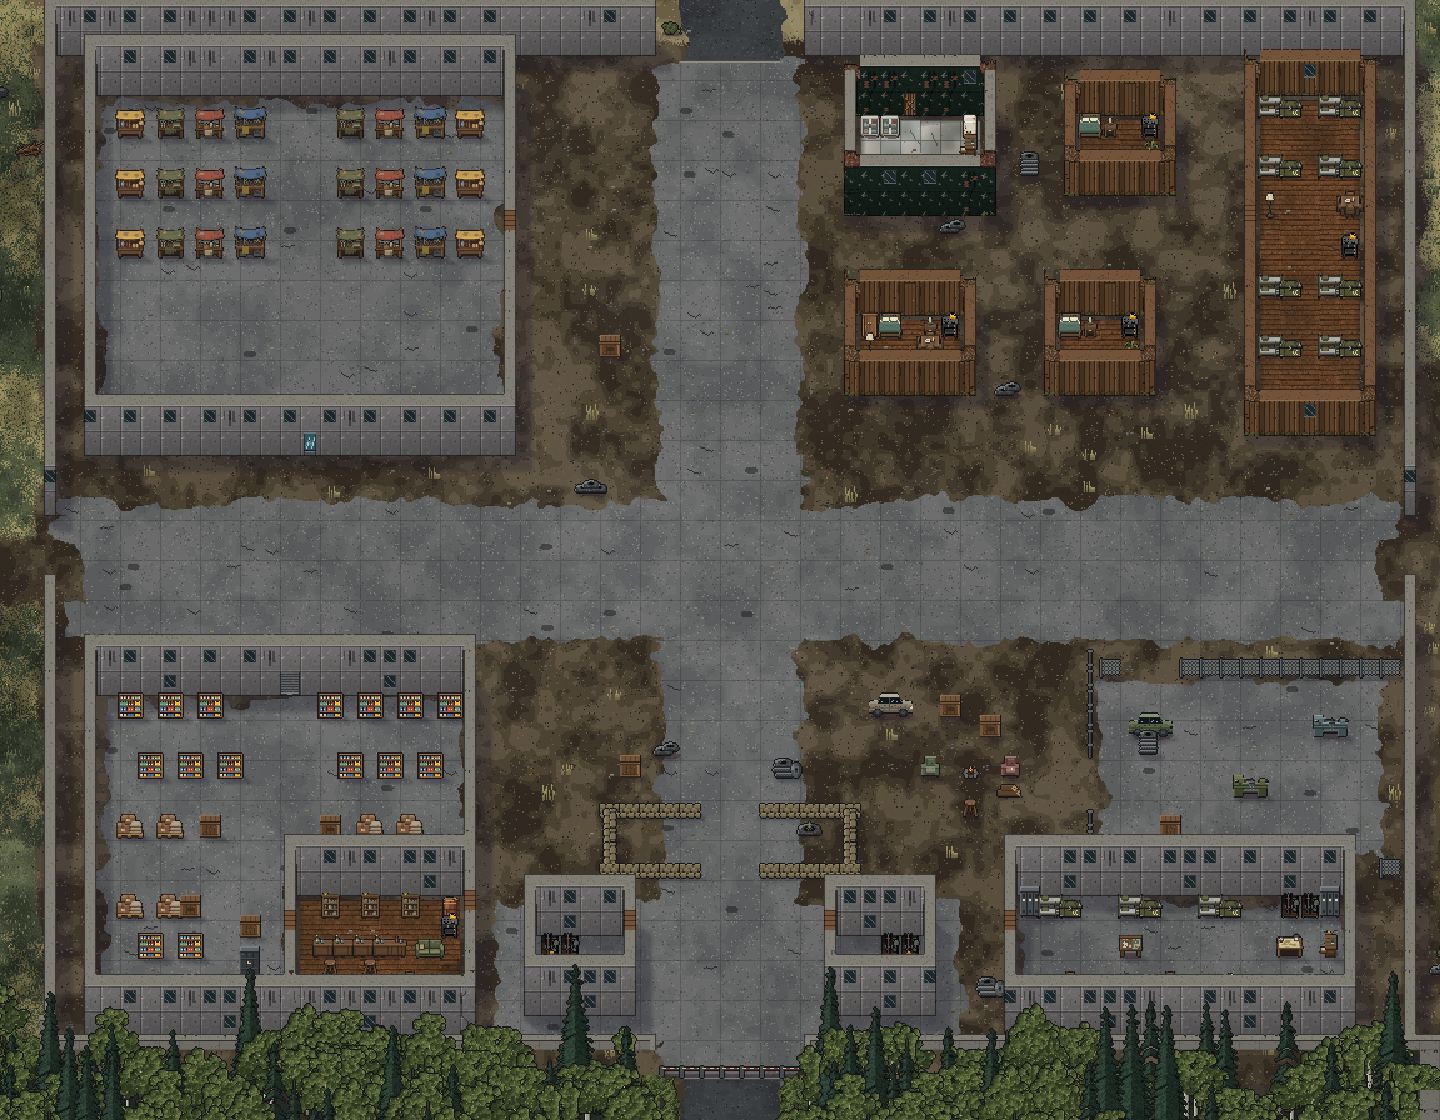
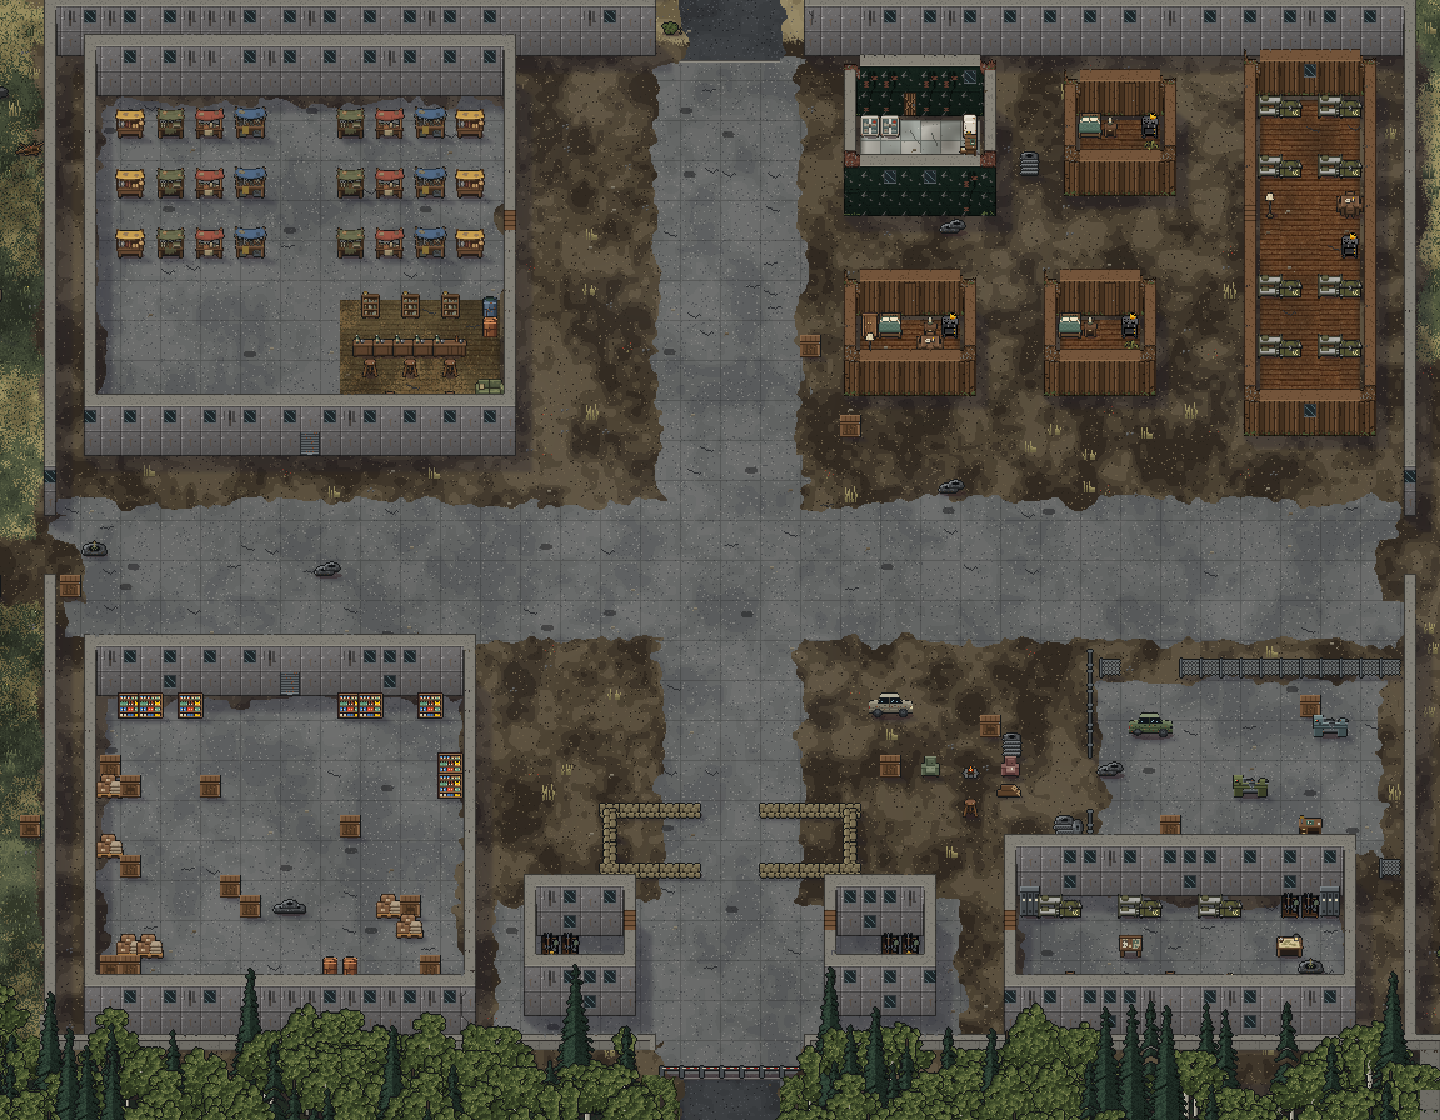
Hub: open bar in the Bazaar warehouse, natural clutter in the storage warehouse
Claude-Session: https://claude.ai/code/session_01Jpd5tdDJTR7BVueAYV1KDM

diff --git a/Assets/Scripts/GameCore/Interiors.cs b/Assets/Scripts/GameCore/Interiors.cs
@@ -349,88 +349,6 @@ namespace GameCore
             "......",
         };
 
-        public static readonly string[] WarehouseN = {
-            "######################",
-            "#....................#",
-            "#....................#",
-            "#....................#",
-            "#....................#",
-            "#....................#",
-            "#....................#",
-            "#....................#",
-            "#....................#",
-            "#....................D",
-            "#....................#",
-            "#....................#",
-            "#....................#",
-            "#....................#",
-            "#....................#",
-            "#....................#",
-            "#....................#",
-            "#....................#",
-            "###########D##########",
-        };
-        public static readonly string[] WarehouseNFloor = {
-            "......................",
-            ".cccccccccccccccccccc.",
-            ".cccccccccccccccccccc.",
-            ".cccccccccccccccccccc.",
-            ".cccccccccccccccccccc.",
-            ".cccccccccccccccccccc.",
-            ".cccccccccccccccccccc.",
-            ".cccccccccccccccccccc.",
-            ".cccccccccccccccccccc.",
-            ".cccccccccccccccccccc.",
-            ".cccccccccccccccccccc.",
-            ".cccccccccccccccccccc.",
-            ".cccccccccccccccccccc.",
-            ".cccccccccccccccccccc.",
-            ".cccccccccccccccccccc.",
-            ".cccccccccccccccccccc.",
-            ".cccccccccccccccccccc.",
-            ".cccccccccccccccccccc.",
-            "......................",
-        };
-        public static readonly string[] WarehouseBar = {
-            "####n#####D####n####",
-            "#.g.g.g.....g.g.g.g#",
-            "#..................#",
-            "#..................#",
-            "n..g.g.g.....g.g.g.n",
-            "#..................#",
-            "#..................#",
-            "#.X.X.c.....c.X.X..#",
-            "#..................#",
-            "#..................#",
-            "#.........#######n##",
-            "#.X.X.....#.P.P.P.r#",
-            "#.......c.#.......s#",
-            "n..g.g....#.VVVV.o.D",
-            "#.......h.D.S.S....#",
-            "#c........#....STS.n",
-            "#.........#........#",
-            "#######n######n#####",
-        };
-        public static readonly string[] WarehouseBarFloor = {
-            "....................",
-            ".cccccccccccccccccc.",
-            ".cccccccccccccccccc.",
-            ".cccccccccccccccccc.",
-            ".cccccccccccccccccc.",
-            ".cccccccccccccccccc.",
-            ".cccccccccccccccccc.",
-            ".cccccccccccccccccc.",
-            ".cccccccccccccccccc.",
-            ".cccccccccccccccccc.",
-            ".ccccccccc..........",
-            ".ccccccccc.wwwwwwww.",
-            ".ccccccccc.wwwwwwww.",
-            ".ccccccccc.wwwwwwww.",
-            ".ccccccccc.wwwwwwww.",
-            ".ccccccccc.wwwwwwww.",
-            ".ccccccccc.wwwwwwww.",
-            "....................",
-        };
         public static readonly string[] BunkTall = {
             "###n###",
             "#KF.KF#",
@@ -490,6 +408,89 @@ namespace GameCore
             ".cccccccccccccccc.",
             ".cccccccccccccccc.",
             "..................",
+        };
+
+        public static readonly string[] WarehouseN = {
+            "######################",
+            "#....................#",
+            "#....................#",
+            "#....................#",
+            "#....................#",
+            "#....................#",
+            "#....................#",
+            "#....................#",
+            "#....................#",
+            "#....................D",
+            "#....................#",
+            "#.............P.P.P.r#",
+            "#...................r#",
+            "#.............VVVVV..#",
+            "#.............S.S.S..#",
+            "#...................o#",
+            "#............S.TS.T..#",
+            "#....................#",
+            "###########D##########",
+        };
+        public static readonly string[] WarehouseNFloor = {
+            "......................",
+            ".cccccccccccccccccccc.",
+            ".cccccccccccccccccccc.",
+            ".cccccccccccccccccccc.",
+            ".cccccccccccccccccccc.",
+            ".cccccccccccccccccccc.",
+            ".cccccccccccccccccccc.",
+            ".cccccccccccccccccccc.",
+            ".cccccccccccccccccccc.",
+            ".cccccccccccccccccccc.",
+            ".cccccccccccccccccccc.",
+            ".ccccccccccccwwwwwwww.",
+            ".ccccccccccccwwwwwwww.",
+            ".ccccccccccccwwwwwwww.",
+            ".ccccccccccccwwwwwwww.",
+            ".ccccccccccccwwwwwwww.",
+            ".ccccccccccccwwwwwwww.",
+            ".cccccccccccccccccccc.",
+            "......................",
+        };
+        public static readonly string[] WarehouseS = {
+            "####n#####D####n####",
+            "#.gg.g.......gg..g.#",
+            "#..................#",
+            "#..................#",
+            "#c................g#",
+            "#Xc...c...........g#",
+            "n..................#",
+            "#............c.....#",
+            "#X.................n",
+            "#.c................#",
+            "#......c...........#",
+            "#.......c......Xc..#",
+            "n...............X..#",
+            "#.XX...............n",
+            "#cc.........rr...c.#",
+            "#..c.....m.......XX#",
+            "#..................#",
+            "####################",
+        };
+        public static readonly string[] WarehouseSFloor = {
+            "....................",
+            ".cccccccccccccccccc.",
+            ".cccccccccccccccccc.",
+            ".cccccccccccccccccc.",
+            ".cccccccccccccccccc.",
+            ".cccccccccccccccccc.",
+            ".cccccccccccccccccc.",
+            ".cccccccccccccccccc.",
+            ".cccccccccccccccccc.",
+            ".cccccccccccccccccc.",
+            ".cccccccccccccccccc.",
+            ".cccccccccccccccccc.",
+            ".cccccccccccccccccc.",
+            ".cccccccccccccccccc.",
+            ".cccccccccccccccccc.",
+            ".cccccccccccccccccc.",
+            ".cccccccccccccccccc.",
+            "....................",
         };
 
         /// <summary>The dev map: the three test buildings on grass, side by side.</summary>

diff --git a/Tools/compile_check/test/Program.cs b/Tools/compile_check/test/Program.cs
@@ -3337,7 +3337,7 @@ static class Program {
       Check(h >= 4 && sh >= 4 && bk >= 4 && conts.All(o => TerrainMap.GetTile(o.X, o.Y).Look != null), $"the test buildings hold small containers on their furniture (house {h}, shop {sh}, barracks {bk})");
       var pl = Player.Current ?? new Player(); int ru0 = pl.Ru; int items0 = pl.Inventory.Items.Count; for (int i = 0; i < 200; i++) foreach (var o in conts.Where(o => o.Reward.Loot.Id.StartsWith("cont:house:"))) ContainerLoot.Grant(pl, o.Reward.Loot.Id);
       Check(!pl.Inventory.Items.Any(it => it.Type == "weapon" || it.Type == "armor"), "a house's containers, opened 200 times over, never gave a weapon or armor"); }
-    foreach (var (name, rows, floors, door) in new[] { ("house", Interiors.House, Interiors.HouseFloor, (17, 7)), ("shop", Interiors.Shop, Interiors.ShopFloor, (7, 12)), ("barracks", Interiors.Barracks, Interiors.BarracksFloor, (13, 14)), ("bunkhouse", Interiors.Bunkhouse, Interiors.BunkhouseFloor, (7, 7)), ("clinic", Interiors.Clinic, Interiors.ClinicFloor, (4, 6)), ("cabin1", Interiors.Cabin1, Interiors.Cabin1Floor, (3, 1)), ("cabin2", Interiors.Cabin2, Interiors.Cabin2Floor, (3, 1)), ("workshop", Interiors.Workshop, Interiors.WorkshopFloor, (4, 1)), ("tent", Interiors.Tent, Interiors.TentFloor, (4, 2)), ("bar", Interiors.Bar, Interiors.BarFloor, (1, 3)), ("anchor", Interiors.Anchor, Interiors.AnchorFloor, (14, 5)), ("clinicS", Interiors.ClinicSmall, Interiors.ClinicSmallFloor, (3, 1)), ("barrackshall", Interiors.BarracksHall, Interiors.BarracksHallFloor, (7, 8)), ("guardE", Interiors.GuardE, Interiors.GuardEFloor, (4, 2)), ("guardW", Interiors.GuardW, Interiors.GuardWFloor, (1, 2)), ("warehouseN", Interiors.WarehouseN, Interiors.WarehouseNFloor, (11, 17)), ("warehouseBar", Interiors.WarehouseBar, Interiors.WarehouseBarFloor, (10, 1)), ("bunkTall", Interiors.BunkTall, Interiors.BunkTallFloor, (1, 8)), ("barracksLong", Interiors.BarracksLong, Interiors.BarracksLongFloor, (1, 4)) }) {
+    foreach (var (name, rows, floors, door) in new[] { ("house", Interiors.House, Interiors.HouseFloor, (17, 7)), ("shop", Interiors.Shop, Interiors.ShopFloor, (7, 12)), ("barracks", Interiors.Barracks, Interiors.BarracksFloor, (13, 14)), ("bunkhouse", Interiors.Bunkhouse, Interiors.BunkhouseFloor, (7, 7)), ("clinic", Interiors.Clinic, Interiors.ClinicFloor, (4, 6)), ("cabin1", Interiors.Cabin1, Interiors.Cabin1Floor, (3, 1)), ("cabin2", Interiors.Cabin2, Interiors.Cabin2Floor, (3, 1)), ("workshop", Interiors.Workshop, Interiors.WorkshopFloor, (4, 1)), ("tent", Interiors.Tent, Interiors.TentFloor, (4, 2)), ("bar", Interiors.Bar, Interiors.BarFloor, (1, 3)), ("anchor", Interiors.Anchor, Interiors.AnchorFloor, (14, 5)), ("clinicS", Interiors.ClinicSmall, Interiors.ClinicSmallFloor, (3, 1)), ("barrackshall", Interiors.BarracksHall, Interiors.BarracksHallFloor, (7, 8)), ("guardE", Interiors.GuardE, Interiors.GuardEFloor, (4, 2)), ("guardW", Interiors.GuardW, Interiors.GuardWFloor, (1, 2)), ("warehouseN", Interiors.WarehouseN, Interiors.WarehouseNFloor, (11, 17)), ("warehouseS", Interiors.WarehouseS, Interiors.WarehouseSFloor, (10, 1)), ("bunkTall", Interiors.BunkTall, Interiors.BunkTallFloor, (1, 8)), ("barracksLong", Interiors.BarracksLong, Interiors.BarracksLongFloor, (1, 4)) }) {
       int h = rows.Length, w = rows[0].Length; bool sameDims = floors.Length == h && floors.All(r => r.Length == w) && rows.All(r => r.Length == w);
       var seen = new HashSet<(int, int)> { door }; var q = new Queue<(int, int)>(); q.Enqueue(door);
       while (q.Count > 0) { var (x, y) = q.Dequeue(); foreach (var (dx, dy) in new[] { (1, 0), (-1, 0), (0, 1), (0, -1) }) { int nx = x + dx, ny = y + dy; if (nx < 0 || ny < 0 || nx >= w || ny >= h || seen.Contains((nx, ny)) || rows[ny][nx] != '.' && rows[ny][nx] != 'D') continue; seen.Add((nx, ny)); q.Enqueue((nx, ny)); } }

diff --git a/Assets/Scripts/GameCore/TierMaps.cs b/Assets/Scripts/GameCore/TierMaps.cs
@@ -854,9 +854,9 @@ namespace GameCore
                   foreach (int rx in new[] { 2, 4, 6, 8, 13, 15, 17, 19 })
                       c.Put(68 + rx, 144 + ry, HardCover, sk[(rx / 2 + ry + si++ / 8) % 4]); }
             c.Landmark("The Bazaar", 79, 152);
-            // SW: the big warehouse with the Rusty Anchor in its lower-right corner (the bar's own door opens east onto the road side)
-            c.Clear(67, 174, 22, 19, Dirt); Interiors.Stamp(c, 68, 174, Interiors.WarehouseBar, Interiors.WarehouseBarFloor, "concrete", "warehouse");
-            c.Landmark("The Rusty Anchor", 88, 187);
+            c.Landmark("The Rusty Anchor", 84, 156);   // the open bar in the NW warehouse's south-east corner
+            // SW: the big storage warehouse
+            c.Clear(67, 174, 22, 19, Dirt); Interiors.Stamp(c, 68, 174, Interiors.WarehouseS, Interiors.WarehouseSFloor, "concrete", "warehouse");
             // NE: houses and the long bunkhouse on the east edge
             c.Clear(104, 143, 24, 19, Dirt); Interiors.Stamp(c, 106, 145, Interiors.ClinicSmall, Interiors.ClinicSmallFloor, "plaster", "clinic");
             c.Landmark("Hub Clinic", 109, 144);

diff --git a/ArtSource/WORK_LOG.md b/ArtSource/WORK_LOG.md
@@ -7325,3 +7325,8 @@ Yan: "the artstyle is not consistent on the furniture, some have hard black outl
 ## Batch 9ex (2026-11-25) - wooden windows gone; the Bazaar warehouse holds only stalls
 
 - Yan: "those wooden windows never made sense, remove them; remove everything else from the warehouse and leave only the bazaar stalls, closer to the top wall". `walls.py`: window faces are no longer boarded and no longer wood-framed (dark glass in a steel frame, steel sill) - game-wide, atlas repacked and copied. `Interiors.WarehouseN` is now an empty shell (no windows, shelves, counters, crates), `TierMaps.cs` stalls at plan rows 2/5/8 (3 x 8) with the Bazaar landmark at (79,152). Harness passes; not run in Unity; render `maps/renders/buildings/hub_bazaar.png`. Note: the warehouse has no windows at all now; other buildings keep theirs.
+
+## Batch 9ey (2026-11-25) - open bar in the Bazaar warehouse; natural storage warehouse
+
+- Yan: move the bar to the top warehouse, don't wall it off; the props were all facing south, evenly spaced in the middle, "does not feel natural". The Rusty Anchor is now an open bar (wood floor patch, back-bar shelves, counter, stools, two tables, barrels, a sofa) in the SE corner of the NW warehouse (`WarehouseN`), landmark (84,156). The SW warehouse (`WarehouseS`, renamed from `WarehouseBar`, partition gone) is plain storage: shelves only against the north wall and one on the east, boxes piled in corners and along walls, loose crates and barrels scattered unevenly, a machine; nothing in neat rows. Props cannot be rotated (one south-facing sprite each), so shelves stay against walls and everything else is clustered. Harness passes; not run in Unity.
+- Not done: the other furnished buildings (village, hub bunkhouse/barracks, house/shop/barracks test plans) still use fairly regular layouts; same treatment possible on request.
